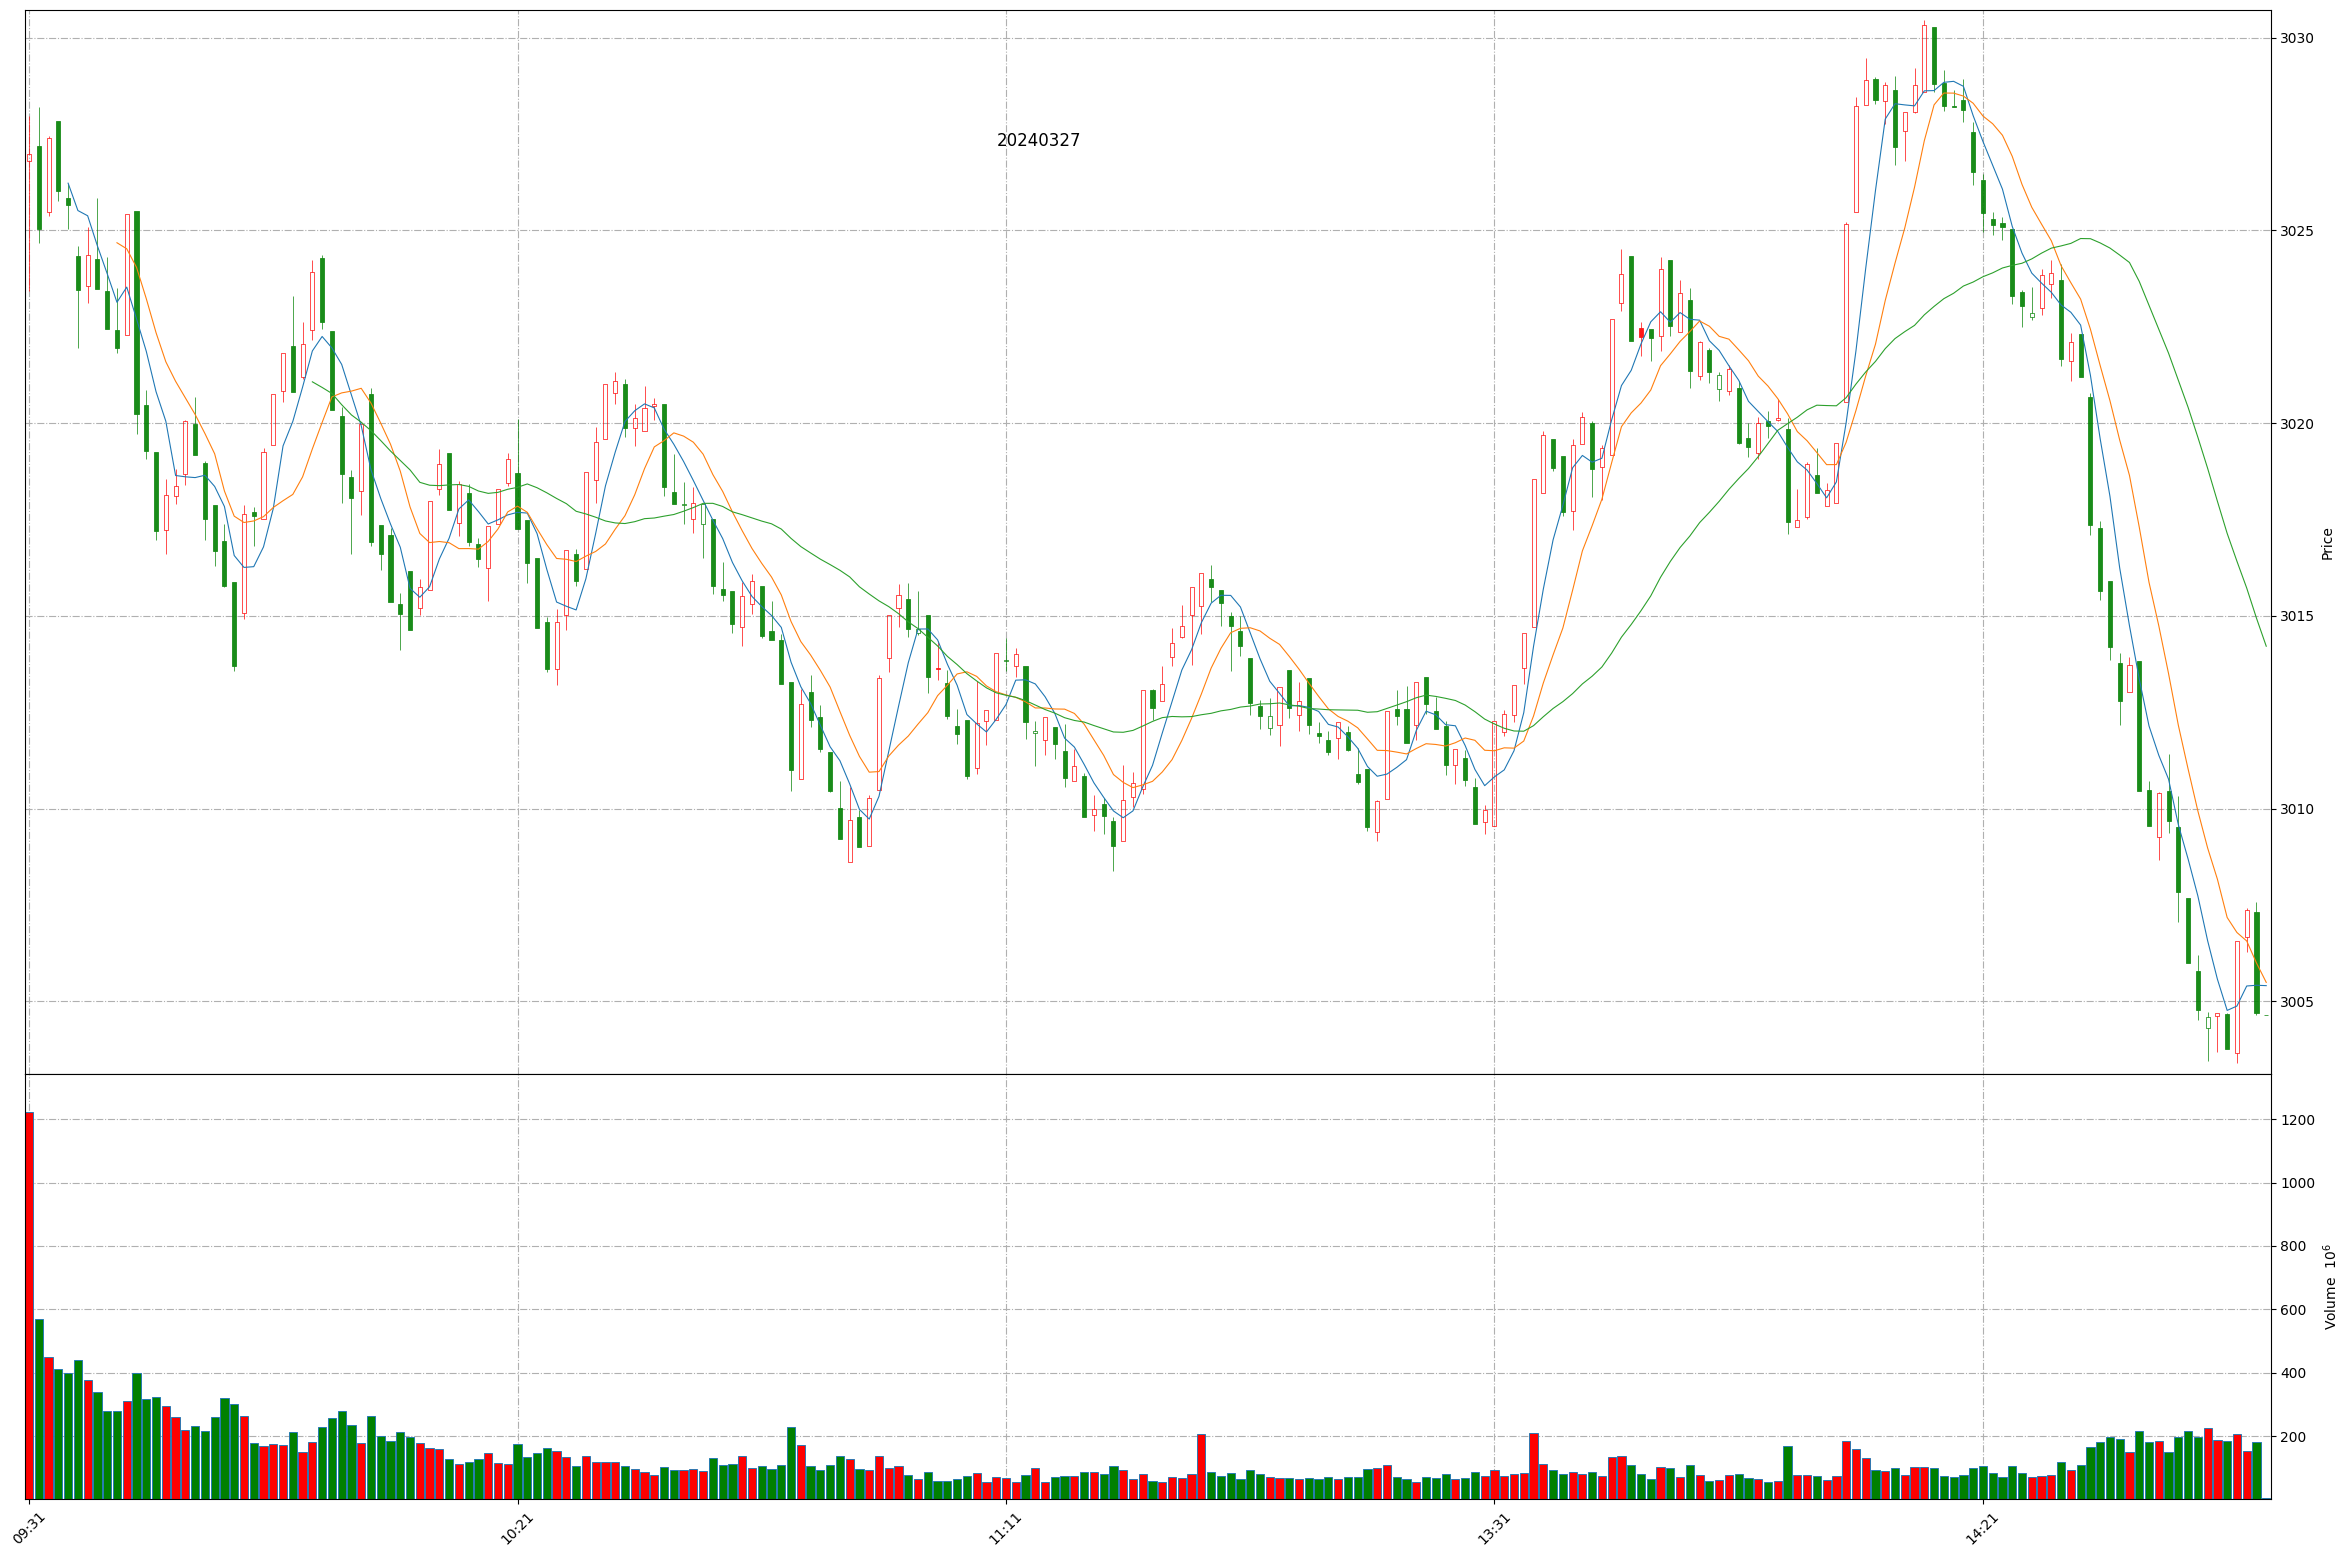
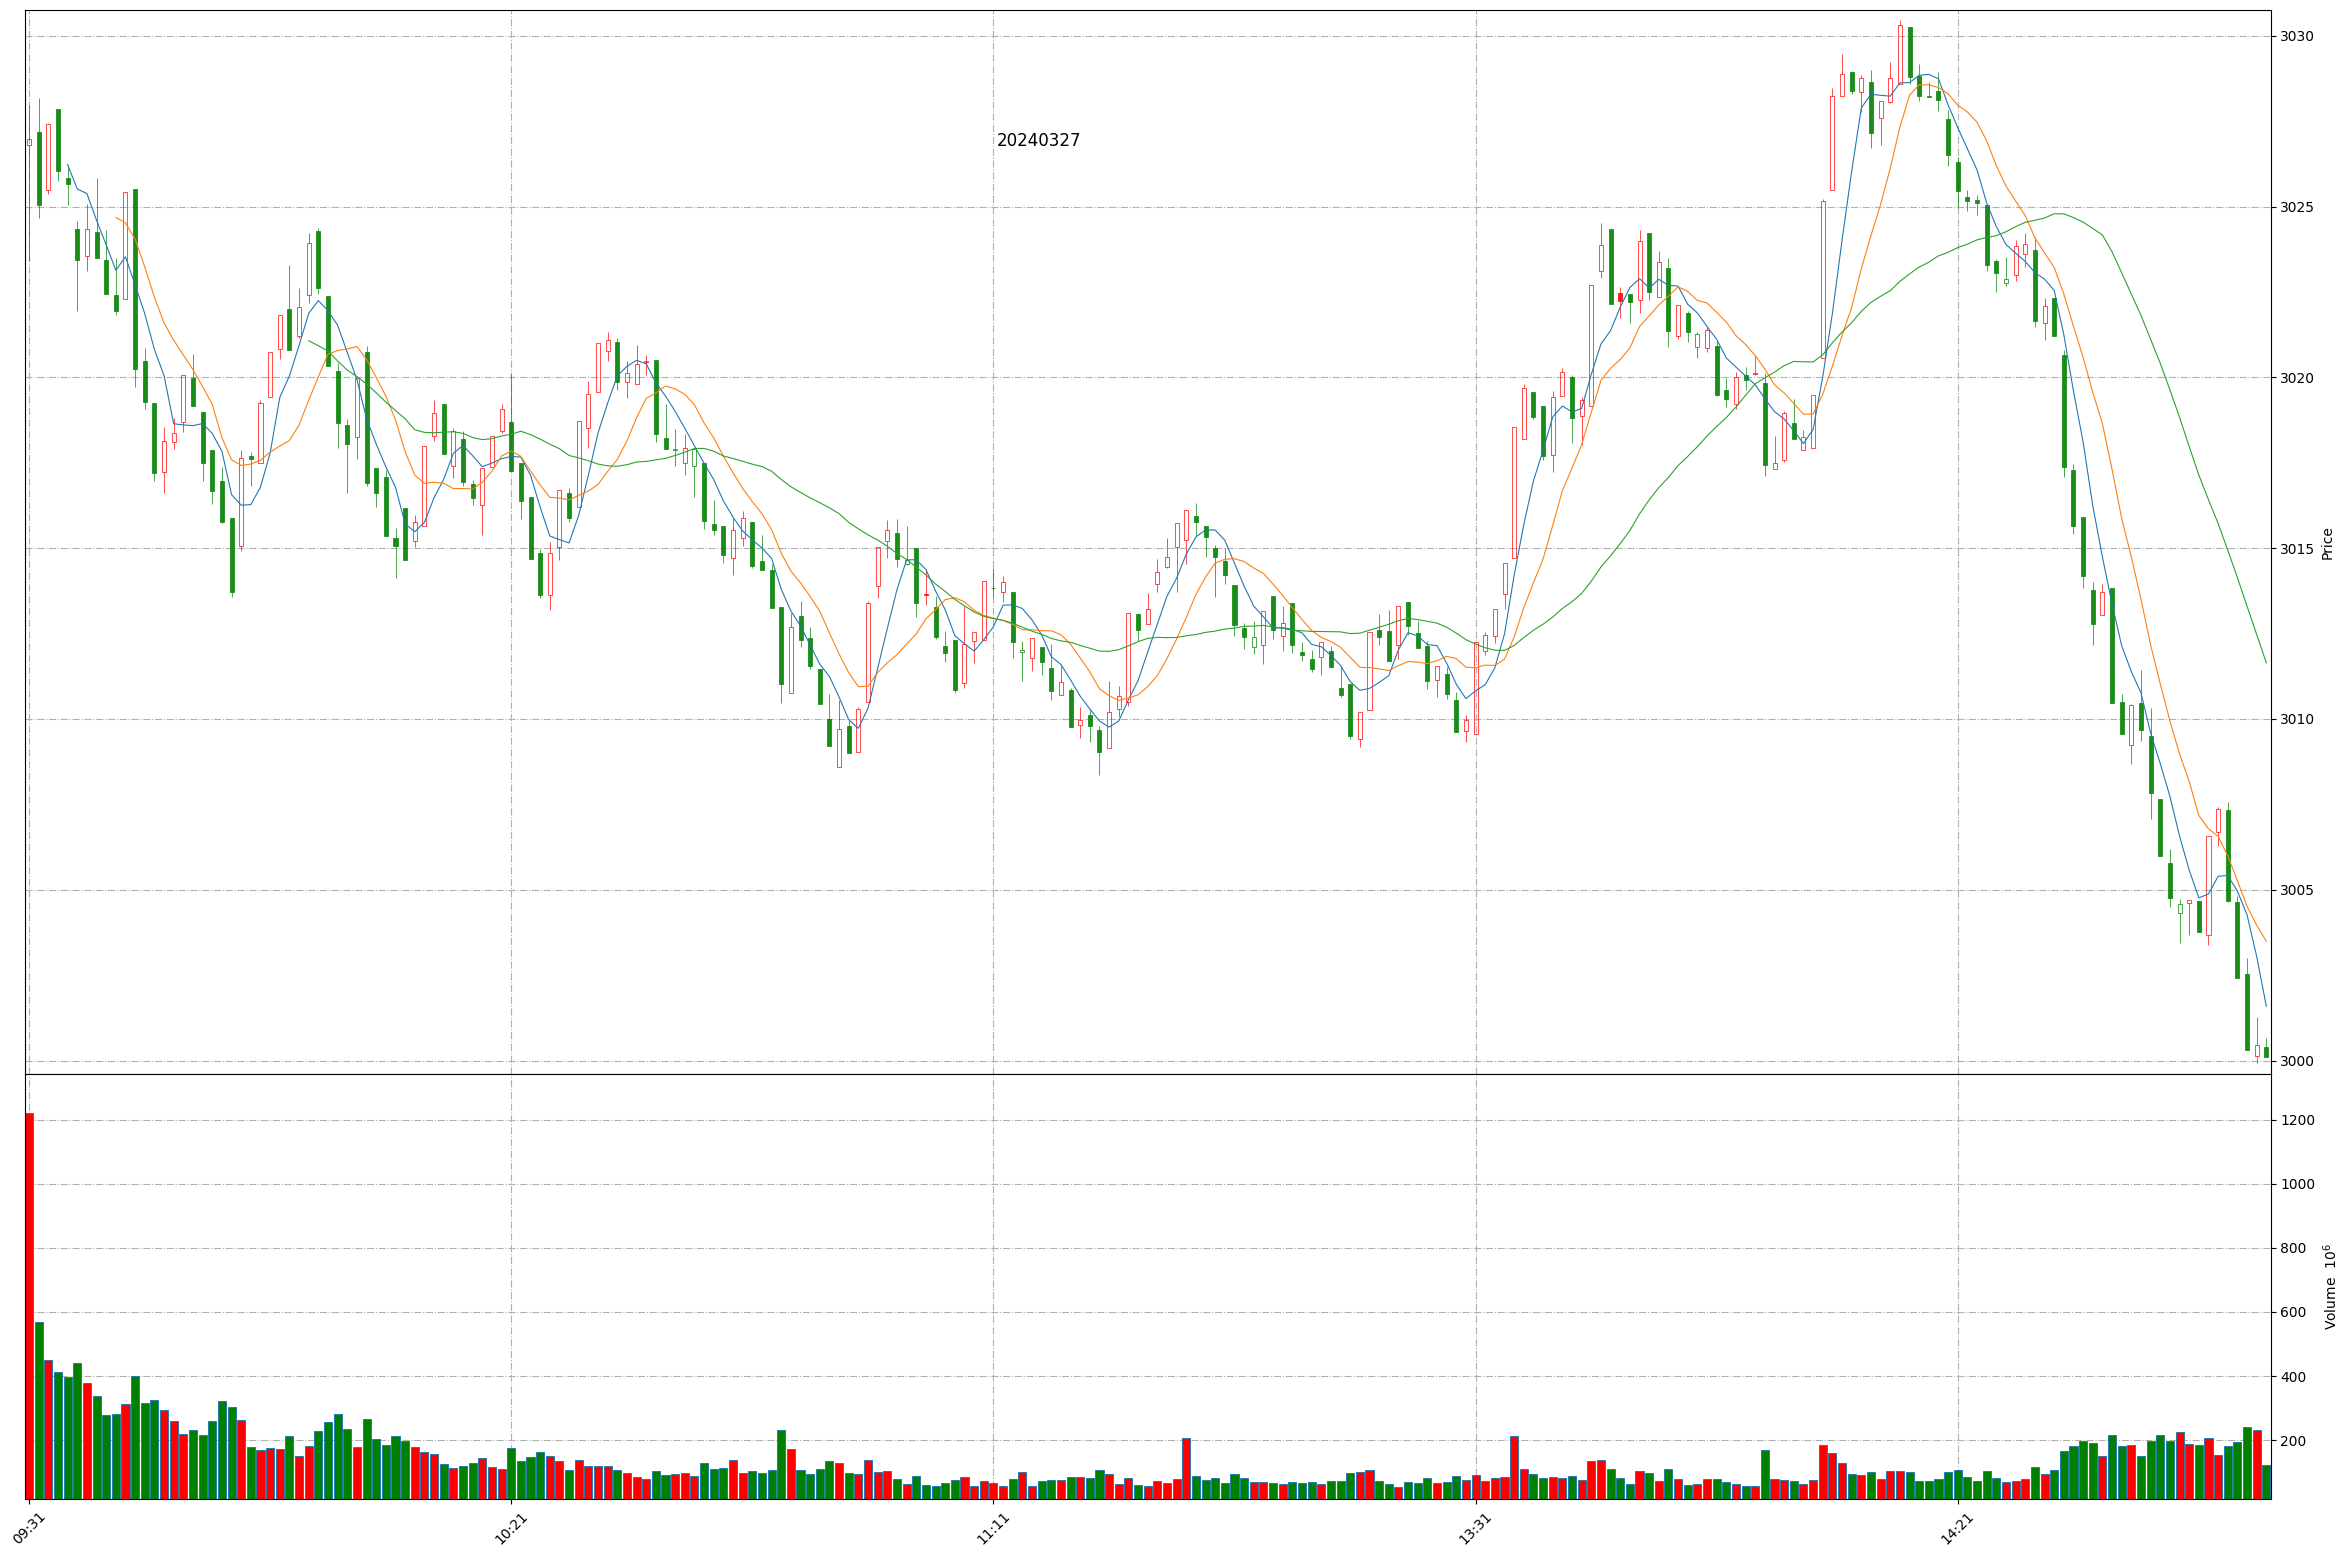
Github action update at 2024-03-27 14:52:47.

diff --git a/README.md b/README.md
@@ -1,11 +1,11 @@
 
 # Daily-A-share-market-quotes 每日 A 股指数（5min 更新）- 20240327
 
-### 上证指数 20240327 14:49
+### 上证指数 20240327 14:52
 ![](./fig/2024/3/20240327-sh000001.png)
 
-### 深证成指 20240327 14:49
+### 深证成指 20240327 14:52
 ![](./fig/2024/3/20240327-sz399001.png)
 
-### 北证50 20240327 14:49
+### 北证50 20240327 14:52
 ![](./fig/2024/3/20240327-bj899050.png)
